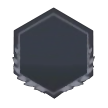
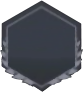
fixed a style dislocation problem

diff --git a/src/components/LevelBlock/LevelBlock.vue b/src/components/LevelBlock/LevelBlock.vue
@@ -49,9 +49,9 @@ export default {
     width: 100%;
     height: 100%;
     background-image: url(~@/assets/img/level-background.png);
-    background-size: 65px;
+    background-size: 60px 60px;
     background-repeat: no-repeat;
-    background-position: 50%;
+    background-position: center;
     font-size: 20px;
     line-height: 65px;
     color: #fff;
@@ -59,7 +59,7 @@ export default {
 
     &.has-progress {
       height: 60px;
-      background-size: 60px;
+      background-size: 55px;
       line-height: 60px;
     }
   }

diff --git a/src/components/ProgressBar/ProgressBar.vue b/src/components/ProgressBar/ProgressBar.vue
@@ -29,11 +29,10 @@ export default {
 
 <style lang="scss" scoped>
 .module.progress-bar {
-  width: 100%;
-  height: 100%;
+  width: calc(100% - 2px);
+  height: calc(100% - 2px);
   border: 1px solid #666;
   background-color: #000;
-  margin: -1px;
 
   .progress-block {
     height: 100%;
